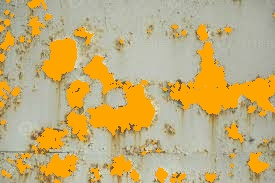
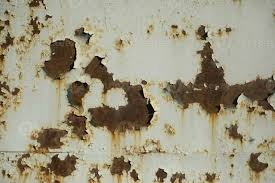
Heatmap of the system is add

diff --git a/Rust_detection.py b/Rust_detection.py
@@ -1,5 +1,6 @@
 import cv2
-import numpy as np
+import numpy as np    
+import matplotlib.pyplot as plt
 
 
 #Reading from the image file
@@ -7,14 +8,18 @@ img = cv2.imread("rust_surface.jpg")
 
 #Convert the gray scale
 gray_convert  = cv2.cvtColor(img,cv2.COLOR_BGR2GRAY)
-
-orange = (0, 165, 255)  # BGR orange
-
 rows, cols = gray_convert.shape
 
 
+#Image netagive (Revese intensity transform)
+gray_convert = 255 - gray_convert
+
+# Heatmap the image
+heatmap = cv2.applyColorMap(gray_convert, cv2.COLORMAP_TURBO)
+
 # Thershold the image
 #if greher than thershold make a array point is a black is less than theshold make a array point white at the gray scale
+"""""
 for i in range(rows):
     for j in range(cols):
         if gray_convert[i,j] < 75:
@@ -30,11 +35,15 @@ for i in range(rows):
           cv2.circle(img, (j,i),1,orange,-1)
         
 
+for i in range(rows):
+    for j in range(cols):
+        
+"""""
 
 # Show the image in a window
-cv2.imshow("Rust detected picture", img)
+cv2.imshow("Rust detected picture", heatmap)
 
-cv2.imshow("Gray scale", gray_convert)
+cv2.imshow("Gray scale", img)
 
 #image save
 cv2.imwrite("rust_detected.jpg", img)
@@ -45,4 +54,7 @@ cv2.waitKey(0)
 
 # Close all windows
 cv2.destroyAllWindows()
+
+
+
 
